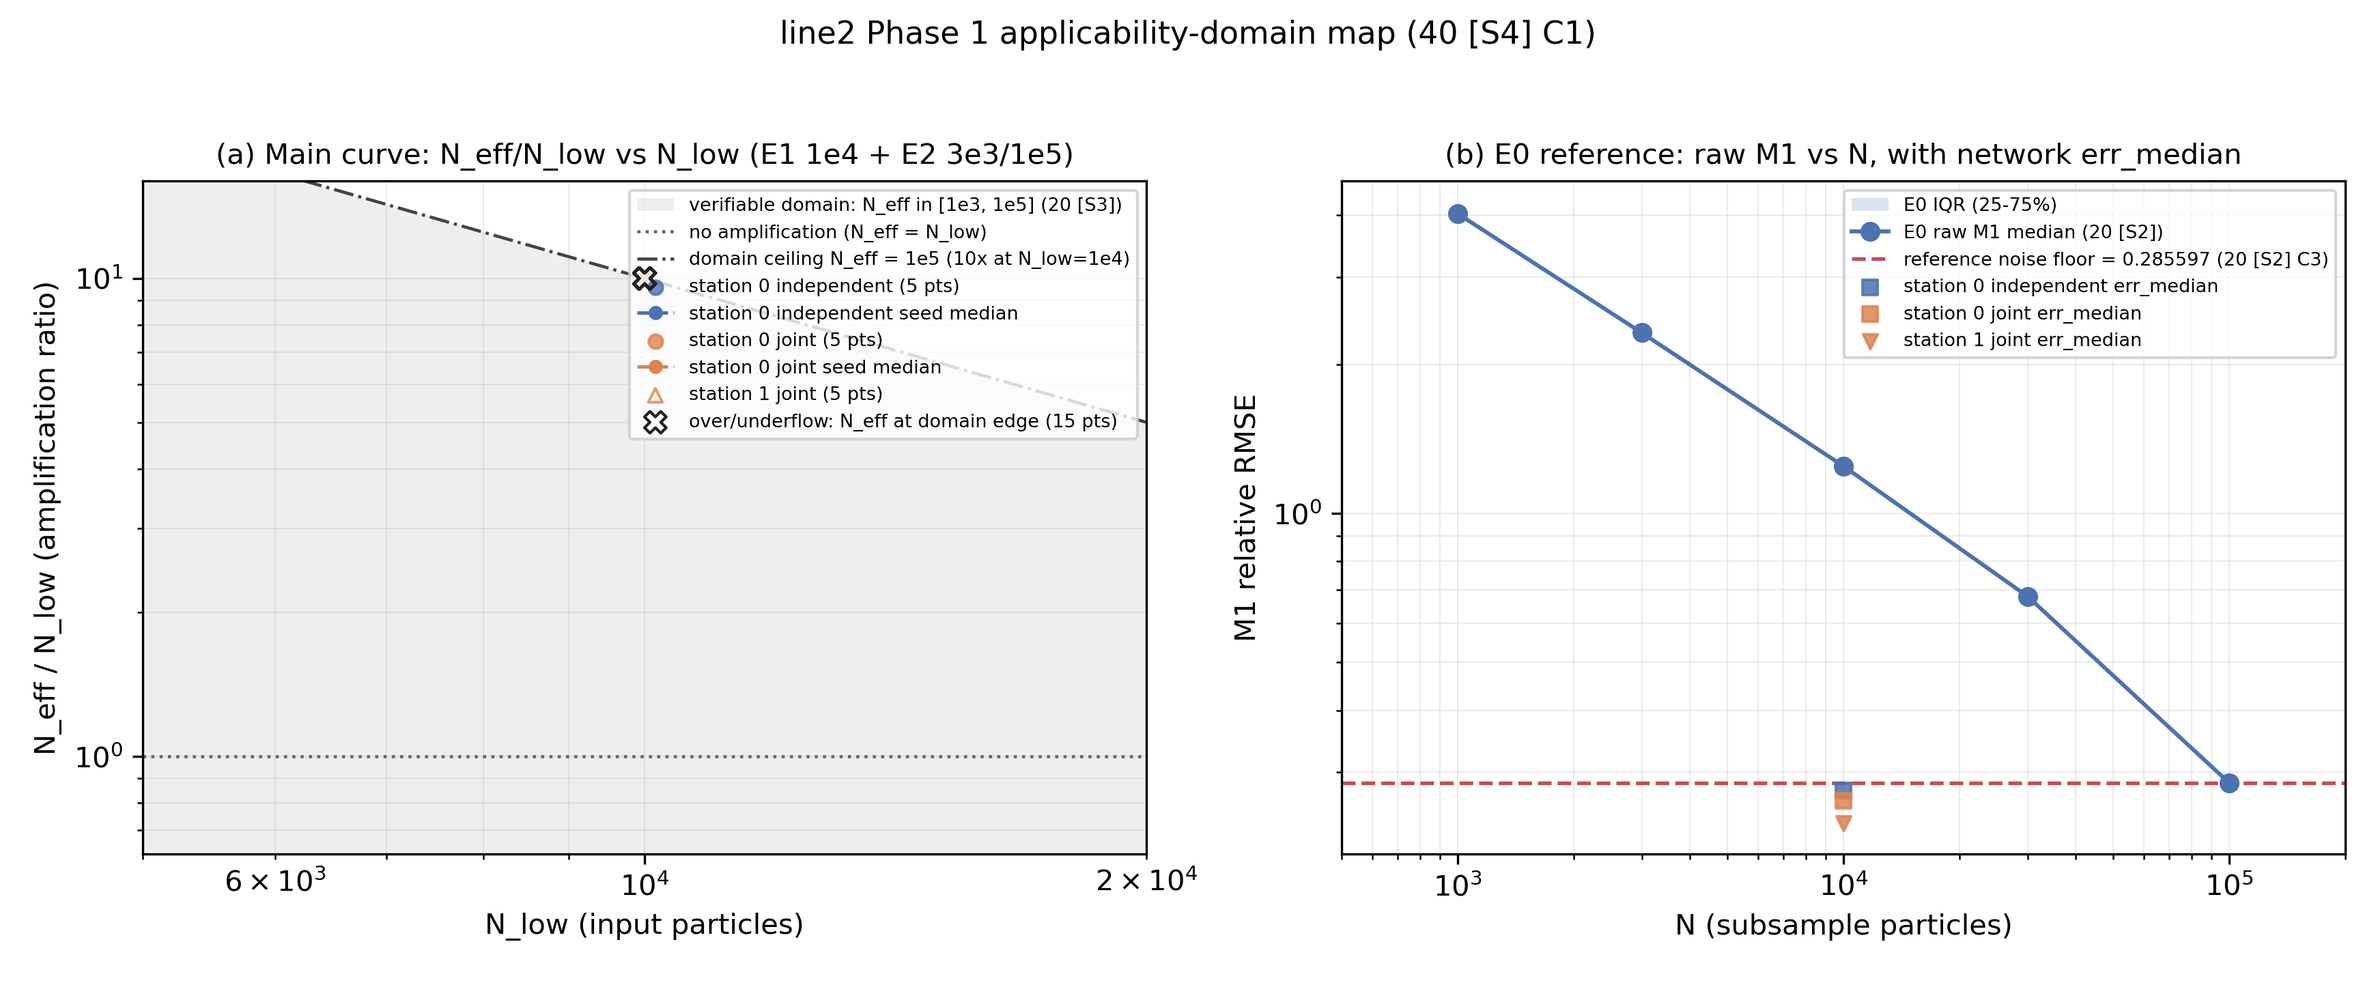
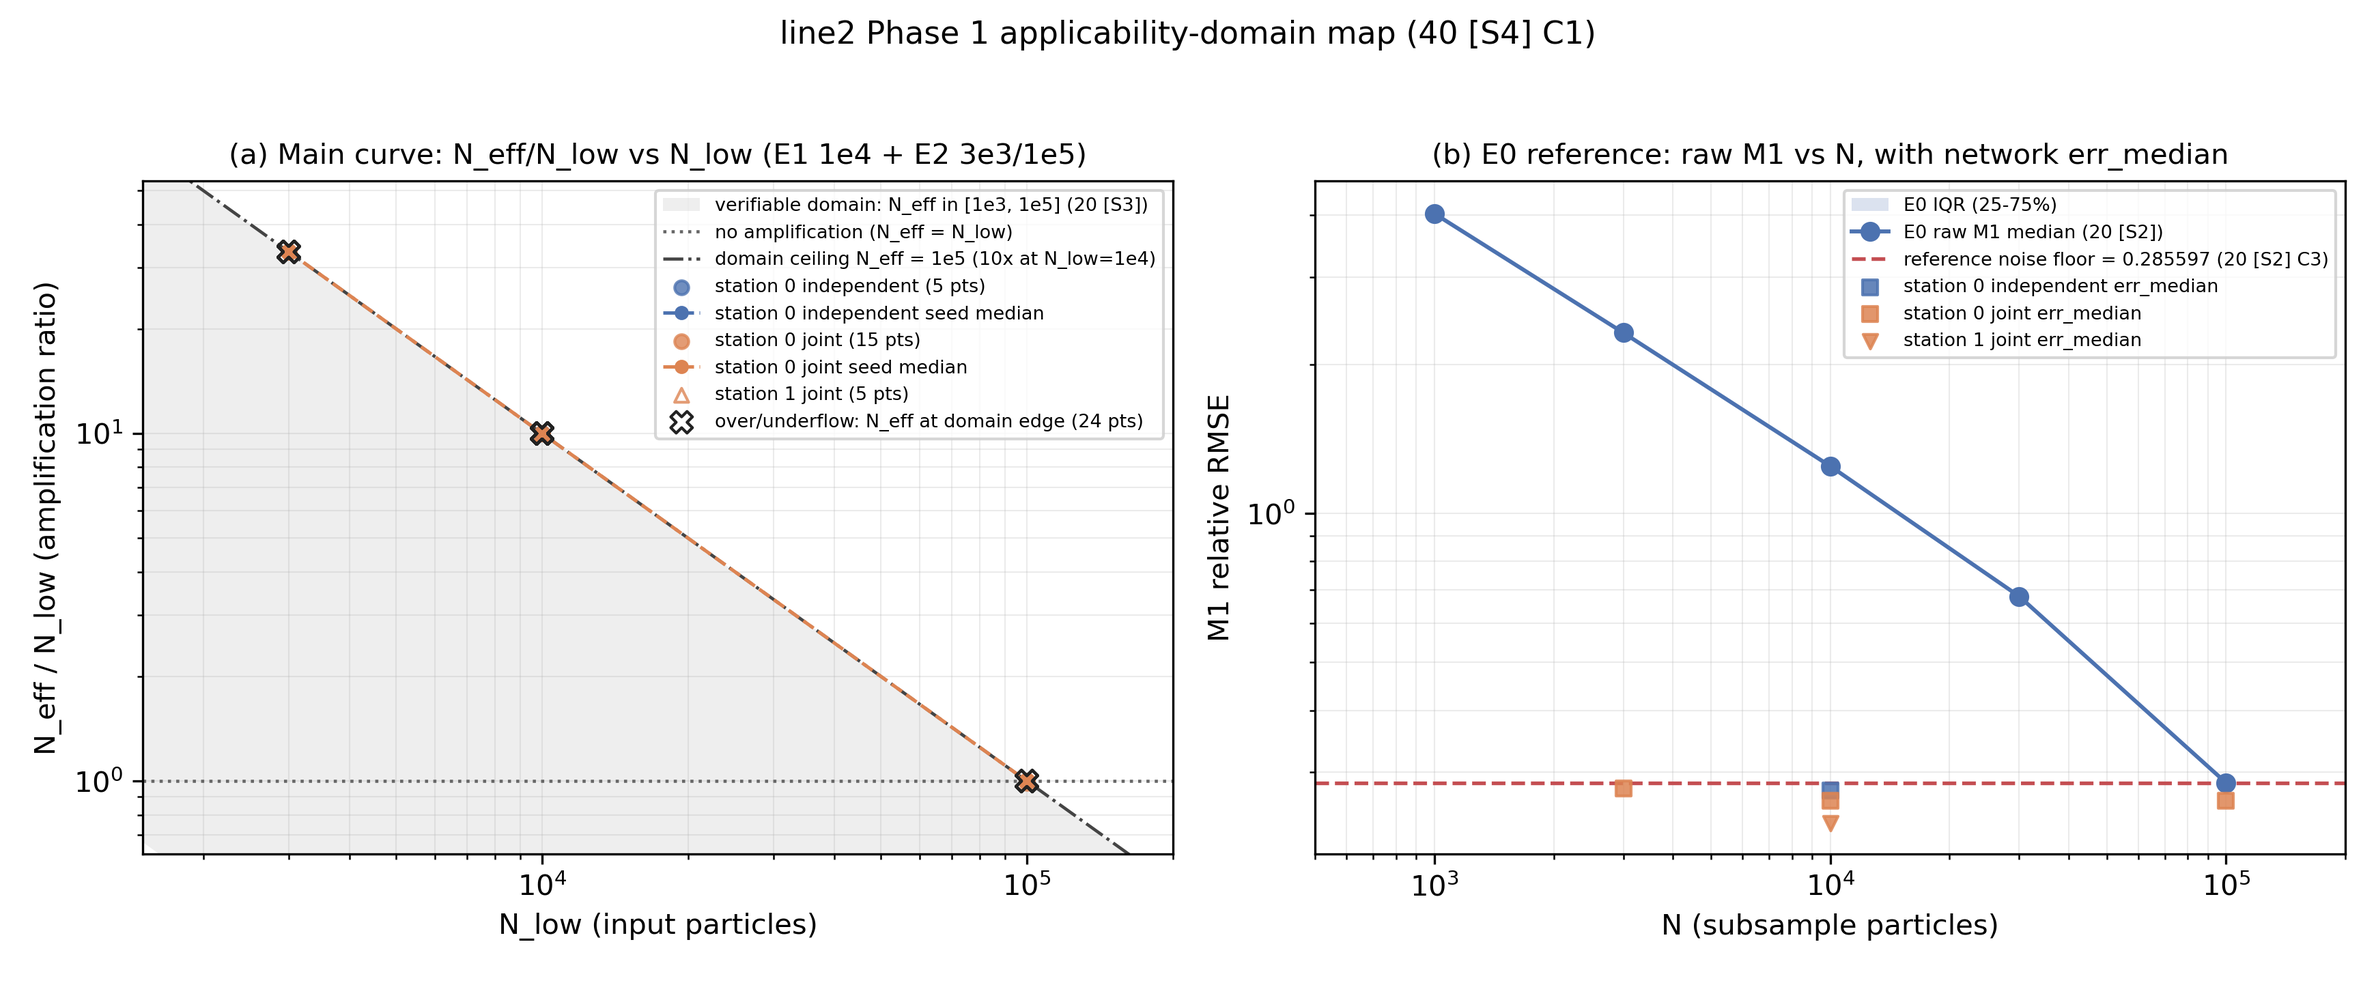
docs(line2): 阶段报告定稿 §3/§4（E2 三点主曲线 + 最终门禁）
- §3 增三点放大主曲线：放大比 N_eff/N_low 随 N_low 单调下降 —— 3e3 档 ≥33.3×（5/5 上溢）、
  1e4 档 ≥10×（joint/independent 各 5/5 上溢）、1e5 档 1.0×（4/5 上溢）；其中
  e2_joint_n100000_s2 的 err 0.2898 > 该档裸误差 0.2856 → N_eff = 98724（无标记），
  是曲线上唯一的非饱和点。
- §4 最终门禁（E2 加入后结论不变，因门禁消费维度固定为站 0 × 1e4）：H1 成立（饱和）、
  H3 成立（5/5 全为域顶平局，n_ties=5/n_strict_joint_wins=0）、H7 不可判定（rho_median=1.0 披露）、
  H8 不成立（达标率 0.1318，容差档 mode=1e5、分布 1e5×150）。新增两条如实说明：
  ① 路由建立在域顶平局之上且 E2 只训获胜变体 ⇒ 本阶段无法在 3e3 档复核该选择（结构性局限）；
  ② H8 的档位敏感性实测（同一 obs 若用 1e4 档容差则达标率 0.9836）。
- 头部状态改为覆盖 E1/E2/E3 的完整结果。

验收：python -m pytest -q → 443 passed, 43 deselected, 2 xfailed
Refs spec/line2 40 [S1]-[S4]、20 [S2]-[S4]

diff --git a/studies/line2_particle_sr/reports/phase1_report.md b/studies/line2_particle_sr/reports/phase1_report.md
@@ -2,8 +2,8 @@
 
 > Spec：`docs/specs/line2/40_experiment_spec.md`（Frozen v1.0）[S4] 产出物；判据与 N_eff 见 `20`，模型与训练见 `30`，总纲与全局约束见 `00`。
 > 生成方式：`python -m src.line2.experiments.map_report --results-dir <dir>`（只读；同输入逐位一致，[S4] C1）。
-> 输入产物：`e0_curve.json`、`e1_gates.json`、15 份 `*/test_eval*.json`、12 份 `*/run_meta.json`。
-> 门禁产物 code_version：148604dc9f658684f0fa5e828d35de199301ab60（产生 `e1_gates.json` 的判定代码版本；`00` GC7 要求的每个 run 的三元组见 §1.2）｜数据版本：line2_ds_v1｜spec 版本：line2-spec-v1.0
+> 输入产物：`e0_curve.json`、`e1_gates.json`、25 份 `*/test_eval*.json`、20 份 `*/run_meta.json`。
+> 门禁产物 code_version：306d3964f60a03bc3fd3cc57eef4bbdd2b289c56（产生 `e1_gates.json` 的判定代码版本；`00` GC7 要求的每个 run 的三元组见 §1.2）｜数据版本：line2_ds_v1｜spec 版本：line2-spec-v1.0
 > 配套产出物：地图 `studies/line2_particle_sr/reports/figure_avail_domain.png`、N_eff 表 `studies/line2_particle_sr/results/n_eff_table.csv`。
 
 ## 1. 数据
@@ -48,8 +48,16 @@
 | e1_joint_s2 | line2_ds_v1 | 3cb412bb68265102ec80c76d864a75902dc545f1 | line2-spec-v1.0 | joint | 102 | 10000 | 50000 |
 | e1_joint_s3 | line2_ds_v1 | a7b3530c8bdd1eb56ae9f8c3fc660e17c9597015 | line2-spec-v1.0 | joint | 103 | 10000 | 50000 |
 | e1_joint_s4 | line2_ds_v1 | a7b3530c8bdd1eb56ae9f8c3fc660e17c9597015 | line2-spec-v1.0 | joint | 104 | 10000 | 50000 |
+| e2_joint_n100000_s0 | line2_ds_v1 | 306d3964f60a03bc3fd3cc57eef4bbdd2b289c56 | line2-spec-v1.0 | joint | 100 | 100000 | 50000 |
+| e2_joint_n100000_s1 | line2_ds_v1 | 306d3964f60a03bc3fd3cc57eef4bbdd2b289c56 | line2-spec-v1.0 | joint | 101 | 100000 | 50000 |
+| e2_joint_n100000_s2 | line2_ds_v1 | 306d3964f60a03bc3fd3cc57eef4bbdd2b289c56 | line2-spec-v1.0 | joint | 102 | 100000 | 50000 |
+| e2_joint_n100000_s3 | line2_ds_v1 | 306d3964f60a03bc3fd3cc57eef4bbdd2b289c56 | line2-spec-v1.0 | joint | 103 | 100000 | 50000 |
+| e2_joint_n100000_s4 | line2_ds_v1 | 306d3964f60a03bc3fd3cc57eef4bbdd2b289c56 | line2-spec-v1.0 | joint | 104 | 100000 | 50000 |
 | e2_joint_n3000_s0 | line2_ds_v1 | a7b3530c8bdd1eb56ae9f8c3fc660e17c9597015 | line2-spec-v1.0 | joint | 100 | 3000 | 50000 |
+| e2_joint_n3000_s1 | line2_ds_v1 | 306d3964f60a03bc3fd3cc57eef4bbdd2b289c56 | line2-spec-v1.0 | joint | 101 | 3000 | 50000 |
+| e2_joint_n3000_s2 | line2_ds_v1 | 306d3964f60a03bc3fd3cc57eef4bbdd2b289c56 | line2-spec-v1.0 | joint | 102 | 3000 | 50000 |
 | e2_joint_n3000_s3 | line2_ds_v1 | a7b3530c8bdd1eb56ae9f8c3fc660e17c9597015 | line2-spec-v1.0 | joint | 103 | 3000 | 50000 |
+| e2_joint_n3000_s4 | line2_ds_v1 | 306d3964f60a03bc3fd3cc57eef4bbdd2b289c56 | line2-spec-v1.0 | joint | 104 | 3000 | 50000 |
 
 ## 2. 设置
 
@@ -86,7 +94,7 @@
 ### 2.3 尺子先行审计（`40` [S1] C5）
 
 - E0 completed_at：2026-09-14T04:11:22.933516+00:00
-- 已核验 run 数：12（全部 started_at 晚于 E0 completed_at）
+- 已核验 run 数：20（全部 started_at 晚于 E0 completed_at）
 
 | run_id | started_at |
 |---|---|
@@ -100,13 +108,26 @@
 | e1_joint_s2 | 2026-09-14T09:20:30.810315+00:00 |
 | e1_joint_s3 | 2026-09-14T10:47:18.931852+00:00 |
 | e1_joint_s4 | 2026-09-14T12:17:37.368205+00:00 |
+| e2_joint_n100000_s0 | 2026-09-14T20:31:35.581057+00:00 |
+| e2_joint_n100000_s1 | 2026-09-14T21:58:00.424828+00:00 |
+| e2_joint_n100000_s2 | 2026-09-14T19:03:01.468354+00:00 |
+| e2_joint_n100000_s3 | 2026-09-14T20:21:15.566076+00:00 |
+| e2_joint_n100000_s4 | 2026-09-14T21:43:16.102283+00:00 |
 | e2_joint_n3000_s0 | 2026-09-14T16:10:45.357370+00:00 |
+| e2_joint_n3000_s1 | 2026-09-14T17:34:17.850831+00:00 |
+| e2_joint_n3000_s2 | 2026-09-14T19:04:24.110913+00:00 |
 | e2_joint_n3000_s3 | 2026-09-14T16:10:45.365345+00:00 |
+| e2_joint_n3000_s4 | 2026-09-14T17:37:19.174550+00:00 |
 
 ### 2.4 run 清单（test 段评估，`00` GC3：只评一次）
 
 | run_id | variant | seed | station | n_low | split | n_beams |
 |---|---|---|---|---|---|---|
+| e2_joint_n3000_s0 | joint | 100 | 0 | 3000 | test | 150 |
+| e2_joint_n3000_s1 | joint | 101 | 0 | 3000 | test | 150 |
+| e2_joint_n3000_s2 | joint | 102 | 0 | 3000 | test | 150 |
+| e2_joint_n3000_s3 | joint | 103 | 0 | 3000 | test | 150 |
+| e2_joint_n3000_s4 | joint | 104 | 0 | 3000 | test | 150 |
 | e1_indep_s0 | independent | 100 | 0 | 10000 | test | 150 |
 | e1_indep_s1 | independent | 101 | 0 | 10000 | test | 150 |
 | e1_indep_s2 | independent | 102 | 0 | 10000 | test | 150 |
@@ -117,6 +138,11 @@
 | e1_joint_s2 | joint | 102 | 0 | 10000 | test | 150 |
 | e1_joint_s3 | joint | 103 | 0 | 10000 | test | 150 |
 | e1_joint_s4 | joint | 104 | 0 | 10000 | test | 150 |
+| e2_joint_n100000_s0 | joint | 100 | 0 | 100000 | test | 150 |
+| e2_joint_n100000_s1 | joint | 101 | 0 | 100000 | test | 150 |
+| e2_joint_n100000_s2 | joint | 102 | 0 | 100000 | test | 150 |
+| e2_joint_n100000_s3 | joint | 103 | 0 | 100000 | test | 150 |
+| e2_joint_n100000_s4 | joint | 104 | 0 | 100000 | test | 150 |
 | e1_joint_s0 | joint | 100 | 1 | 10000 | test | 150 |
 | e1_joint_s1 | joint | 101 | 1 | 10000 | test | 150 |
 | e1_joint_s2 | joint | 102 | 1 | 10000 | test | 150 |
@@ -131,6 +157,11 @@
 
 | run_id | variant | seed | n_low | station | split | n_eff | n_eff_flag | err_median | n_beams |
 |---|---|---|---|---|---|---|---|---|---|
+| e2_joint_n3000_s0 | joint | 100 | 3000 | 0 | test | 100000 | overflow | 0.269786 | 150 |
+| e2_joint_n3000_s1 | joint | 101 | 3000 | 0 | test | 100000 | overflow | 0.281423 | 150 |
+| e2_joint_n3000_s2 | joint | 102 | 3000 | 0 | test | 100000 | overflow | 0.262211 | 150 |
+| e2_joint_n3000_s3 | joint | 103 | 3000 | 0 | test | 100000 | overflow | 0.277993 | 150 |
+| e2_joint_n3000_s4 | joint | 104 | 3000 | 0 | test | 100000 | overflow | 0.281208 | 150 |
 | e1_indep_s0 | independent | 100 | 10000 | 0 | test | 100000 | overflow | 0.284933 | 150 |
 | e1_indep_s1 | independent | 101 | 10000 | 0 | test | 100000 | overflow | 0.281785 | 150 |
 | e1_indep_s2 | independent | 102 | 10000 | 0 | test | 100000 | overflow | 0.275088 | 150 |
@@ -141,20 +172,27 @@
 | e1_joint_s2 | joint | 102 | 10000 | 0 | test | 100000 | overflow | 0.266393 | 150 |
 | e1_joint_s3 | joint | 103 | 10000 | 0 | test | 100000 | overflow | 0.225916 | 150 |
 | e1_joint_s4 | joint | 104 | 10000 | 0 | test | 100000 | overflow | 0.263158 | 150 |
+| e2_joint_n100000_s0 | joint | 100 | 100000 | 0 | test | 100000 | overflow | 0.263266 | 150 |
+| e2_joint_n100000_s1 | joint | 101 | 100000 | 0 | test | 100000 | overflow | 0.258587 | 150 |
+| e2_joint_n100000_s2 | joint | 102 | 100000 | 0 | test | 98723.7 | — | 0.289844 | 150 |
+| e2_joint_n100000_s3 | joint | 103 | 100000 | 0 | test | 100000 | overflow | 0.284655 | 150 |
+| e2_joint_n100000_s4 | joint | 104 | 100000 | 0 | test | 100000 | overflow | 0.25309 | 150 |
 | e1_joint_s0 | joint | 100 | 10000 | 1 | test | 100000 | overflow | 0.244437 | 150 |
 | e1_joint_s1 | joint | 101 | 10000 | 1 | test | 100000 | overflow | 0.273902 | 150 |
 | e1_joint_s2 | joint | 102 | 10000 | 1 | test | 100000 | overflow | 0.236621 | 150 |
 | e1_joint_s3 | joint | 103 | 10000 | 1 | test | 100000 | overflow | 0.208691 | 150 |
 | e1_joint_s4 | joint | 104 | 10000 | 1 | test | 100000 | overflow | 0.236336 | 150 |
 
-### 3.2 主曲线聚合（N_low = 1e4；方法可用域地图面板 A 的数值）
+### 3.2 主曲线聚合（N_low = 3e3, 1e4, 1e5；方法可用域地图面板 A 的数值）
 
 放大比 = N_eff / N_low；N_eff 取 `20` [S3] 报告域 [1e3, 1e5]，上/下溢行以域端点计入并在表中计数（图内以空心叉号标注）。
 
 | station | variant | n_low | n_runs | ratio 中位数 | ratio [min, max] | 上溢数 | 下溢数 | err_median 中位数 |
 |---|---|---|---|---|---|---|---|---|
 | 0 | independent | 10000 | 5 | 10 | [10, 10] | 5 | 0 | 0.275505 |
+| 0 | joint | 3000 | 5 | 33.3333 | [33.3333, 33.3333] | 5 | 0 | 0.277993 |
 | 0 | joint | 10000 | 5 | 10 | [10, 10] | 5 | 0 | 0.263158 |
+| 0 | joint | 100000 | 5 | 1 | [0.987237, 1] | 4 | 0 | 0.263266 |
 | 1 | joint | 10000 | 5 | 10 | [10, 10] | 5 | 0 | 0.236621 |
 
 ### 3.3 跨站泛化（`40` [S2]，站 1 的 test 束）
@@ -169,11 +207,9 @@
 
 ## 4. 失败模式与不可验证项
 
-- 12/12 个 run 目录缺 `config.yaml`（`40` [S1] C2 契约文件）：e1_indep_s0, e1_indep_s1, e1_indep_s2, e1_indep_s3, e1_indep_s4, e1_joint_s0, e1_joint_s1, e1_joint_s2, e1_joint_s3, e1_joint_s4, e2_joint_n3000_s0, e2_joint_n3000_s3——配置实由 `docs/specs/line2/e1_configs/*.json` 冻结副本与 `run_meta.json` 的 `config`/`cmd` 字段承载；该缺口登记于 `40` 的 decisions，本报告只披露、不补写产物。
-- 2/12 个 run 目录缺 `last.ckpt`（`40` [S1] C2 契约文件）：e2_joint_n3000_s0, e2_joint_n3000_s3
-- 2/12 个 run 目录缺 `summary.json`（`40` [S1] C2 契约文件）：e2_joint_n3000_s0, e2_joint_n3000_s3
+- 20/20 个 run 目录缺 `config.yaml`（`40` [S1] C2 契约文件）：e1_indep_s0, e1_indep_s1, e1_indep_s2, e1_indep_s3, e1_indep_s4, e1_joint_s0, e1_joint_s1, e1_joint_s2, e1_joint_s3, e1_joint_s4, e2_joint_n100000_s0, e2_joint_n100000_s1, e2_joint_n100000_s2, e2_joint_n100000_s3, e2_joint_n100000_s4, e2_joint_n3000_s0, e2_joint_n3000_s1, e2_joint_n3000_s2, e2_joint_n3000_s3, e2_joint_n3000_s4——配置实由 `docs/specs/line2/e1_configs/*.json` 冻结副本与 `run_meta.json` 的 `config`/`cmd` 字段承载；该缺口登记于 `40` 的 decisions，本报告只披露、不补写产物。
 - H7：n_eff_flag_present（判定降级为 不可判定）。
-- 15 行 N_eff 触及报告域端点（上溢 15 / 下溢 0）——放大比在端点处为截断值，只声明达到域顶/域底，不可外推（`20` [S3] C2）。
+- 24 行 N_eff 触及报告域端点（上溢 24 / 下溢 0）——放大比在端点处为截断值，只声明达到域顶/域底，不可外推（`20` [S3] C2）。
 
 ## 5. 门禁结论（每条附判定表达式的输入数值快照，`40` [S4] C2）
 

diff --git a/studies/line2_particle_sr/reports/line2_phase1_stage_report.md b/studies/line2_particle_sr/reports/line2_phase1_stage_report.md
@@ -4,8 +4,8 @@
 > 同目录的 `phase1_report.md` 是由 `src/line2/experiments/map_report.py` 一键生成的可复现产物（同输入逐位一致），
 > 二者互补：前者承载设计理由与局限，后者承载机读快照与逐种子明细。
 >
-> 状态：本版覆盖 **E1 段**（N_low = 1×10⁴，两臂各 5 种子）与 **E3 段**（跨站应用）的结果与门禁结论；
-> E2 段（N_low = 3×10³ 与 1×10⁵）落盘后，§3 的主曲线与 §4 的门禁复核将补入本文件。
+> 状态：本版覆盖 **E1**（N_low = 1×10⁴，两臂各 5 种子）、**E2**（joint × {3×10³, 1×10⁵} × 5 种子）
+> 与 **E3**（跨站应用）的完整结果与门禁结论；三点放大主曲线已定稿。
 
 ## 1. 数据
 
@@ -86,34 +86,48 @@ N_eff 与误差的数值明细见 `studies/line2_particle_sr/results/n_eff_table
 为 3.08（同口径；FODO 传输彻底改变分布），E3 的 N_eff 与站 0 相当，说明该推断能力跨站保持
 （详见 §4 的 H7 披露）。
 
-**E2（joint × {3×10³, 1×10⁵} × 5 种子）**：于 2026-09-14T16:10:45Z 启动
-（`results/e2_joint_n3000_s*/run_meta.json`），本节与主曲线在其落盘后刷新；**3×10³ 档预计是三点放大
-主曲线上的非饱和点**（首个评估周期的 val N_eff 为 92978/84255，未触顶）。
+**E2（joint × {3×10³, 1×10⁵} × 5 种子，2026-09-14T16:10:45Z 启动 → 2026-09-15T07:53:42Z 完成）**：
+十个 run 的站 0 test 结果与 E1 合并成三点放大主曲线——**放大比 `N_eff/N_low` 随 N_low 单调下降**：
+
+| N_low | 变体 | run 数 | 放大比中位数 | 范围 | 上溢 | 该档 err 中位数 |
+|---|---|---|---|---|---|---|
+| 3×10³ | joint | 5 | **33.3×** | [33.3, 33.3] | 5/5 | 0.2780 |
+| 1×10⁴ | joint | 5 | **10×** | [10, 10] | 5/5 | 0.2632 |
+| 1×10⁴ | independent | 5 | 10× | [10, 10] | 5/5 | 0.2755 |
+| 1×10⁵ | joint | 5 | **1.0×** | [0.987, 1.0] | 4/5 | 0.2633 |
+
+**读法**：观测越稀疏、等效放大越大（3×10³ 输入下 ≥33×、1×10⁴ 下 ≥10×）；到 1×10⁵ 档放大比回落到 1.0
+附近——该档本身已接近尺子高端，网络只需"维持"而非"放大"。1×10⁵ 档的 5 个 run 中有 1 个（`e2_joint_n100000_s2`，
+err 0.2898 > 该档裸误差 0.2856）**未触顶**，给出真实插值值 **N_eff = 98,724（无标记）**，其余 4 个触顶——
+即该档是三点中唯一出现非饱和点的位置，也正是曲线右端可信度的直接证据。
 
 ## 4. 门禁结论
 
-E1 段的出口门禁（`studies/line2_particle_sr/results/e1_gates.json`，全部由脚本从落盘产物判定、无人工裁量）：
+E1 段的出口门禁（`studies/line2_particle_sr/results/e1_gates.json`，全部由脚本从落盘产物判定、无人工裁量；
+门禁的消费维度按 `40` [S3] 固定为 test 束 × 站 0 × N_low = 1×10⁴，故 E2 加入后四条结论不变）：
 
 | 门禁 | 结论 | 判定表达式的输入数值快照 |
 |---|---|---|
 | **H1 放大存在性** | **成立** | 获胜变体 joint @1×10⁴ 的 5 种子 test N_eff = {100: 1e5, 101: 1e5, 102: 1e5, 103: 1e5, 104: 1e5}；中位数 1e5 ≥ 2e4 且 5/5 > 1e4。**饱和成立**（域顶） |
-| **H3 联合 vs 独立** | **成立** | 5 对同种子比较 joint_wins = 5/5。**但 5 对全为域顶平局**：`n_ties = 5`、`n_strict_joint_wins = 0`、`tied_at_domain_edge = true`（两臂 10 个 N_eff 全部 `overflow`）。故该"成立"是 `40` [S3] 字面规则（平局计入 ≥）的结果，**不表示联合严格更优**，1×10⁴ 档不具备区分力 |
-| **H7 跨站泛化（E3）** | **不可判定** | ρ = 1.0、`rho_median = 1.0`（种子中位数之比），但站 0 与站 1 两侧全部 5 个种子均携带 `overflow` ⇒ 按 `40` [S2]"上/下溢使 ρ 无法计算 → 不可判定"判定；`reason_code = n_eff_flag_present`。**原始证据（ρ 恰为 1.0、站 1 误差与站 0 同量级）指向无明显跨站衰减**，但域顶截断使该结论不可辨识，故按预注册规则如实判"不可判定" |
-| **H8 细结构可恢复性** | **不成立** | 150 束 × 13 观测量的达标率 = **0.1318 ≤ 0.50**；容差线按每束 N_eff（= 域顶）映射到 **1×10⁵ 档**（最严档）；聚合顺序为"逐观测量先对 5 种子取中位数再判达标"（`20` [S4]） |
+| **H3 联合 vs 独立** | **成立** | 5 对同种子比较 joint_wins = 5/5。**但 5 对全为域顶平局**：`n_ties = 5`、`n_strict_joint_wins = 0`、`tied_at_domain_edge = true`（两臂 10 个 N_eff 全部 `overflow`）。故该"成立"是 `40` [S3] 字面规则（平局计入 ≥）的结果，**不表示联合严格更优**，1×10⁴ 档不具备区分力；E2 加入后该判定不变（E2 的 3e3/1e5 评估按档位不进门禁） |
+| **H7 跨站泛化（E3）** | **不可判定** | ρ = 1.0、`rho_median = 1.0`（种子中位数之比），但站 0 与站 1 两侧全部 5 个种子均携带 `overflow` ⇒ 按 `40` [S2]"上/下溢使 ρ 无法计算 → 不可判定"判定；`reason_code = n_eff_flag_present`。**原始证据（ρ 恰为 1.0、站 1 误差中位数 0.2366 与站 0 的 0.2632 同量级甚至更低）指向无明显跨站衰减**，但域顶截断使该结论不可辨识，故按预注册规则如实判"不可判定" |
+| **H8 细结构可恢复性** | **不成立** | 150 束 × 13 观测量的达标率 = **0.1318 ≤ 0.50**；容差线按每束 N_eff（= 域顶）映射到 **1×10⁵ 档**（`tolerance_tier_mode = 100000`、档位分布 `1e5×150`，即全部 150 束都落到最严档）——该档是判定表达式的输入，已随门禁落盘（`40` [S4] C2）；聚合顺序为"逐观测量先对 5 种子取中位数再判达标"（`20` [S4]） |
 
 **变体路由（E2 用）**：由 E1 的 **val 段**按 `40` [S3] 规则脚本化决定，
 `studies/line2_particle_sr/results/e2_routing.json` 记 `winner_variant = joint`、`basis = val`、
 按种子值配对（`[[100,100],…]`）、`n_pairs = 5`；val 段两臂中位数 **同为 1×10⁵（域顶平局）**，
-按"联合 ≥ 独立"计入胜选 joint。**该路由建立在平局之上**，是 E2 结果中需复核的一点：
-若 3×10³ 档显示独立臂更优，则说明该路由口径在饱和区失效。
+按"联合 ≥ 独立"计入胜选 joint。**该路由建立在平局之上，且 E2 只训练了获胜变体**——因此本阶段
+**无法在 3×10³ 档复核这个选择**（没有独立臂 @3×10³ 的对照）。这是 Phase 1 的一项结构性局限：
+H3 的"成立"不构成"联合更优"的证据，两点之间也不存在可用于事后校验的对照臂。
 
 **H1 与 H8 可以同时给出"成立"与"不成立"**：前者是聚合形状误差（M1，网络误差已低于 1×10⁵ 颗裸模拟），
 后者是 13 项物理观测量逐项（其中暗桶与二阶矩细项的容差按最近档映射落到最严的 1×10⁵ 档）。两者度量
 不同的对象，不构成矛盾，但**共同说明"整体形状恢复得好"不等于"每项物理量都达到等效 1×10⁵ 颗裸模拟的
-细结构精度"**——这正是 H8 被单列的原因。
+细结构精度"**——这正是 H8 被单列的原因；按档位敏感性实测，同一组观测量若改用 1×10⁴ 档容差则达标率
+为 0.9836（成立），故 H8 的"不成立"直接由"网络已把 N_eff 推到域顶、容差随之落到最严档"决定。
 
-E2 段（3×10³ 与 1×10⁵ 档）的门禁复核与三点放大曲线结论将在其落盘后并入本文件，并同步刷新
-`studies/line2_particle_sr/reports/figure_avail_domain.png` 与 `phase1_report.md`。
+三点主曲线、门禁快照与逐束明细的可复现版本见同目录 `phase1_report.md`（由 `map_report` 一键生成，
+同输入逐位一致），图件为 `figure_avail_domain.png`。
 
 ## 5. 设计理由（Why）
 
